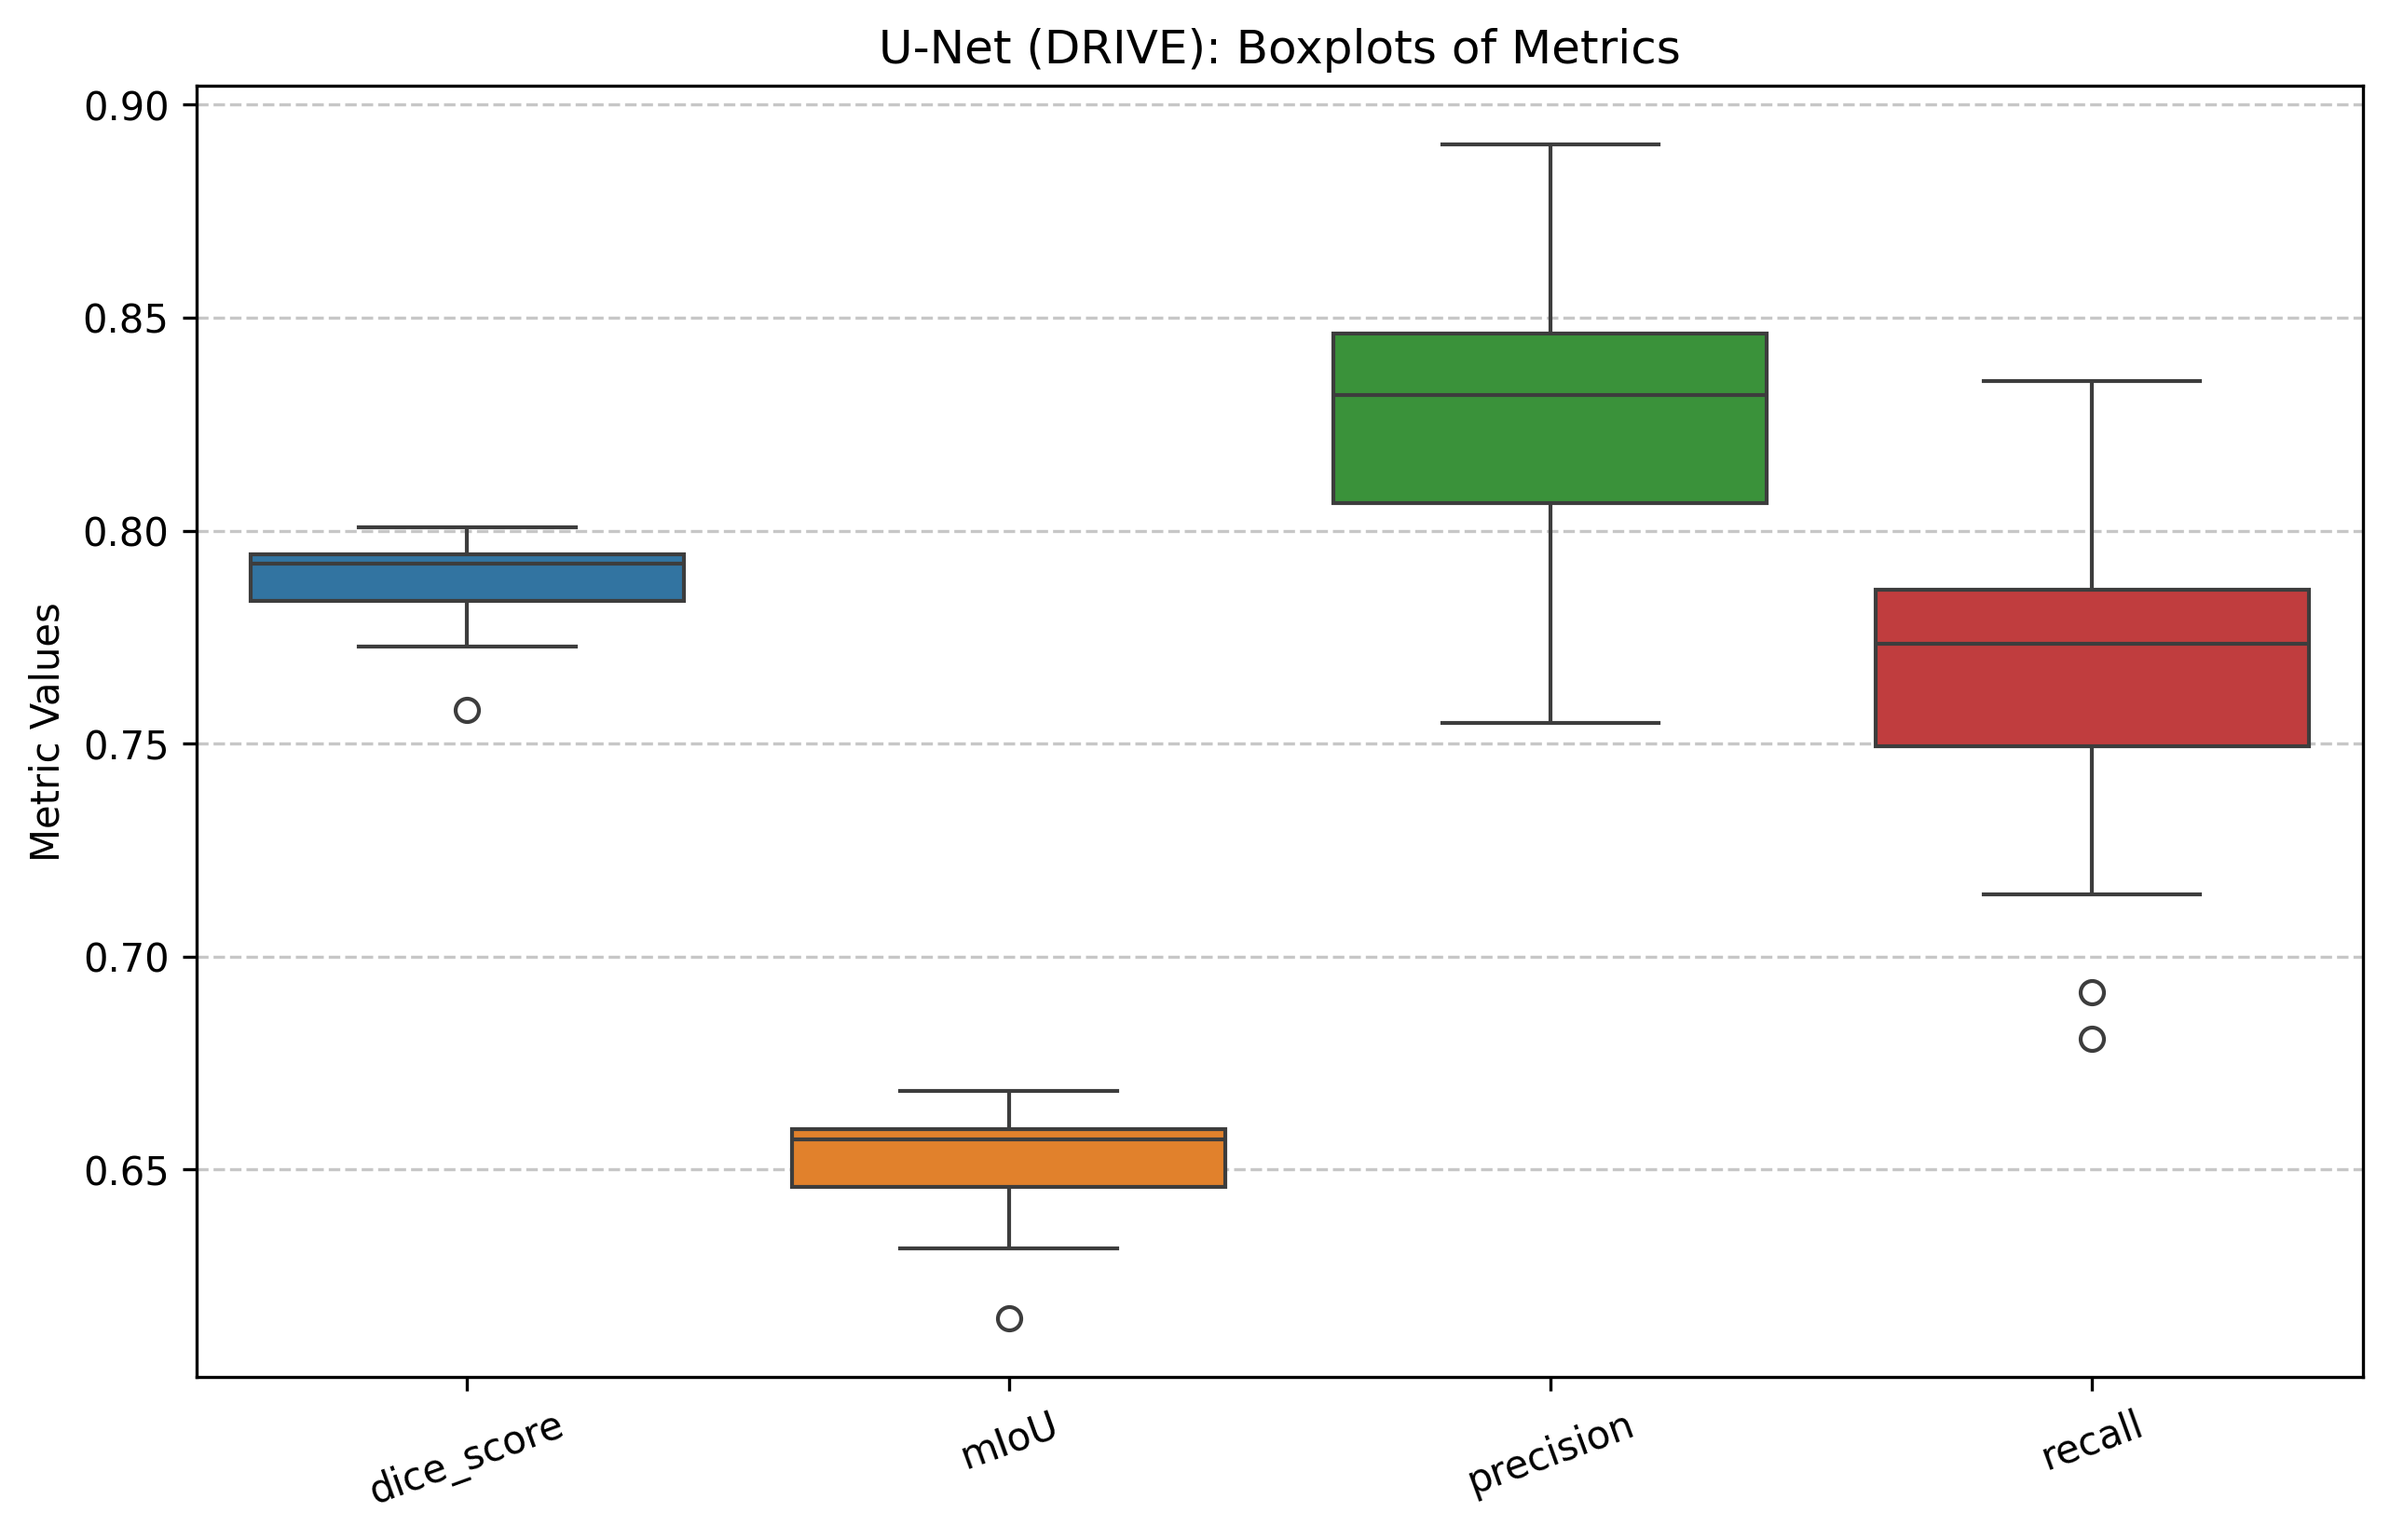
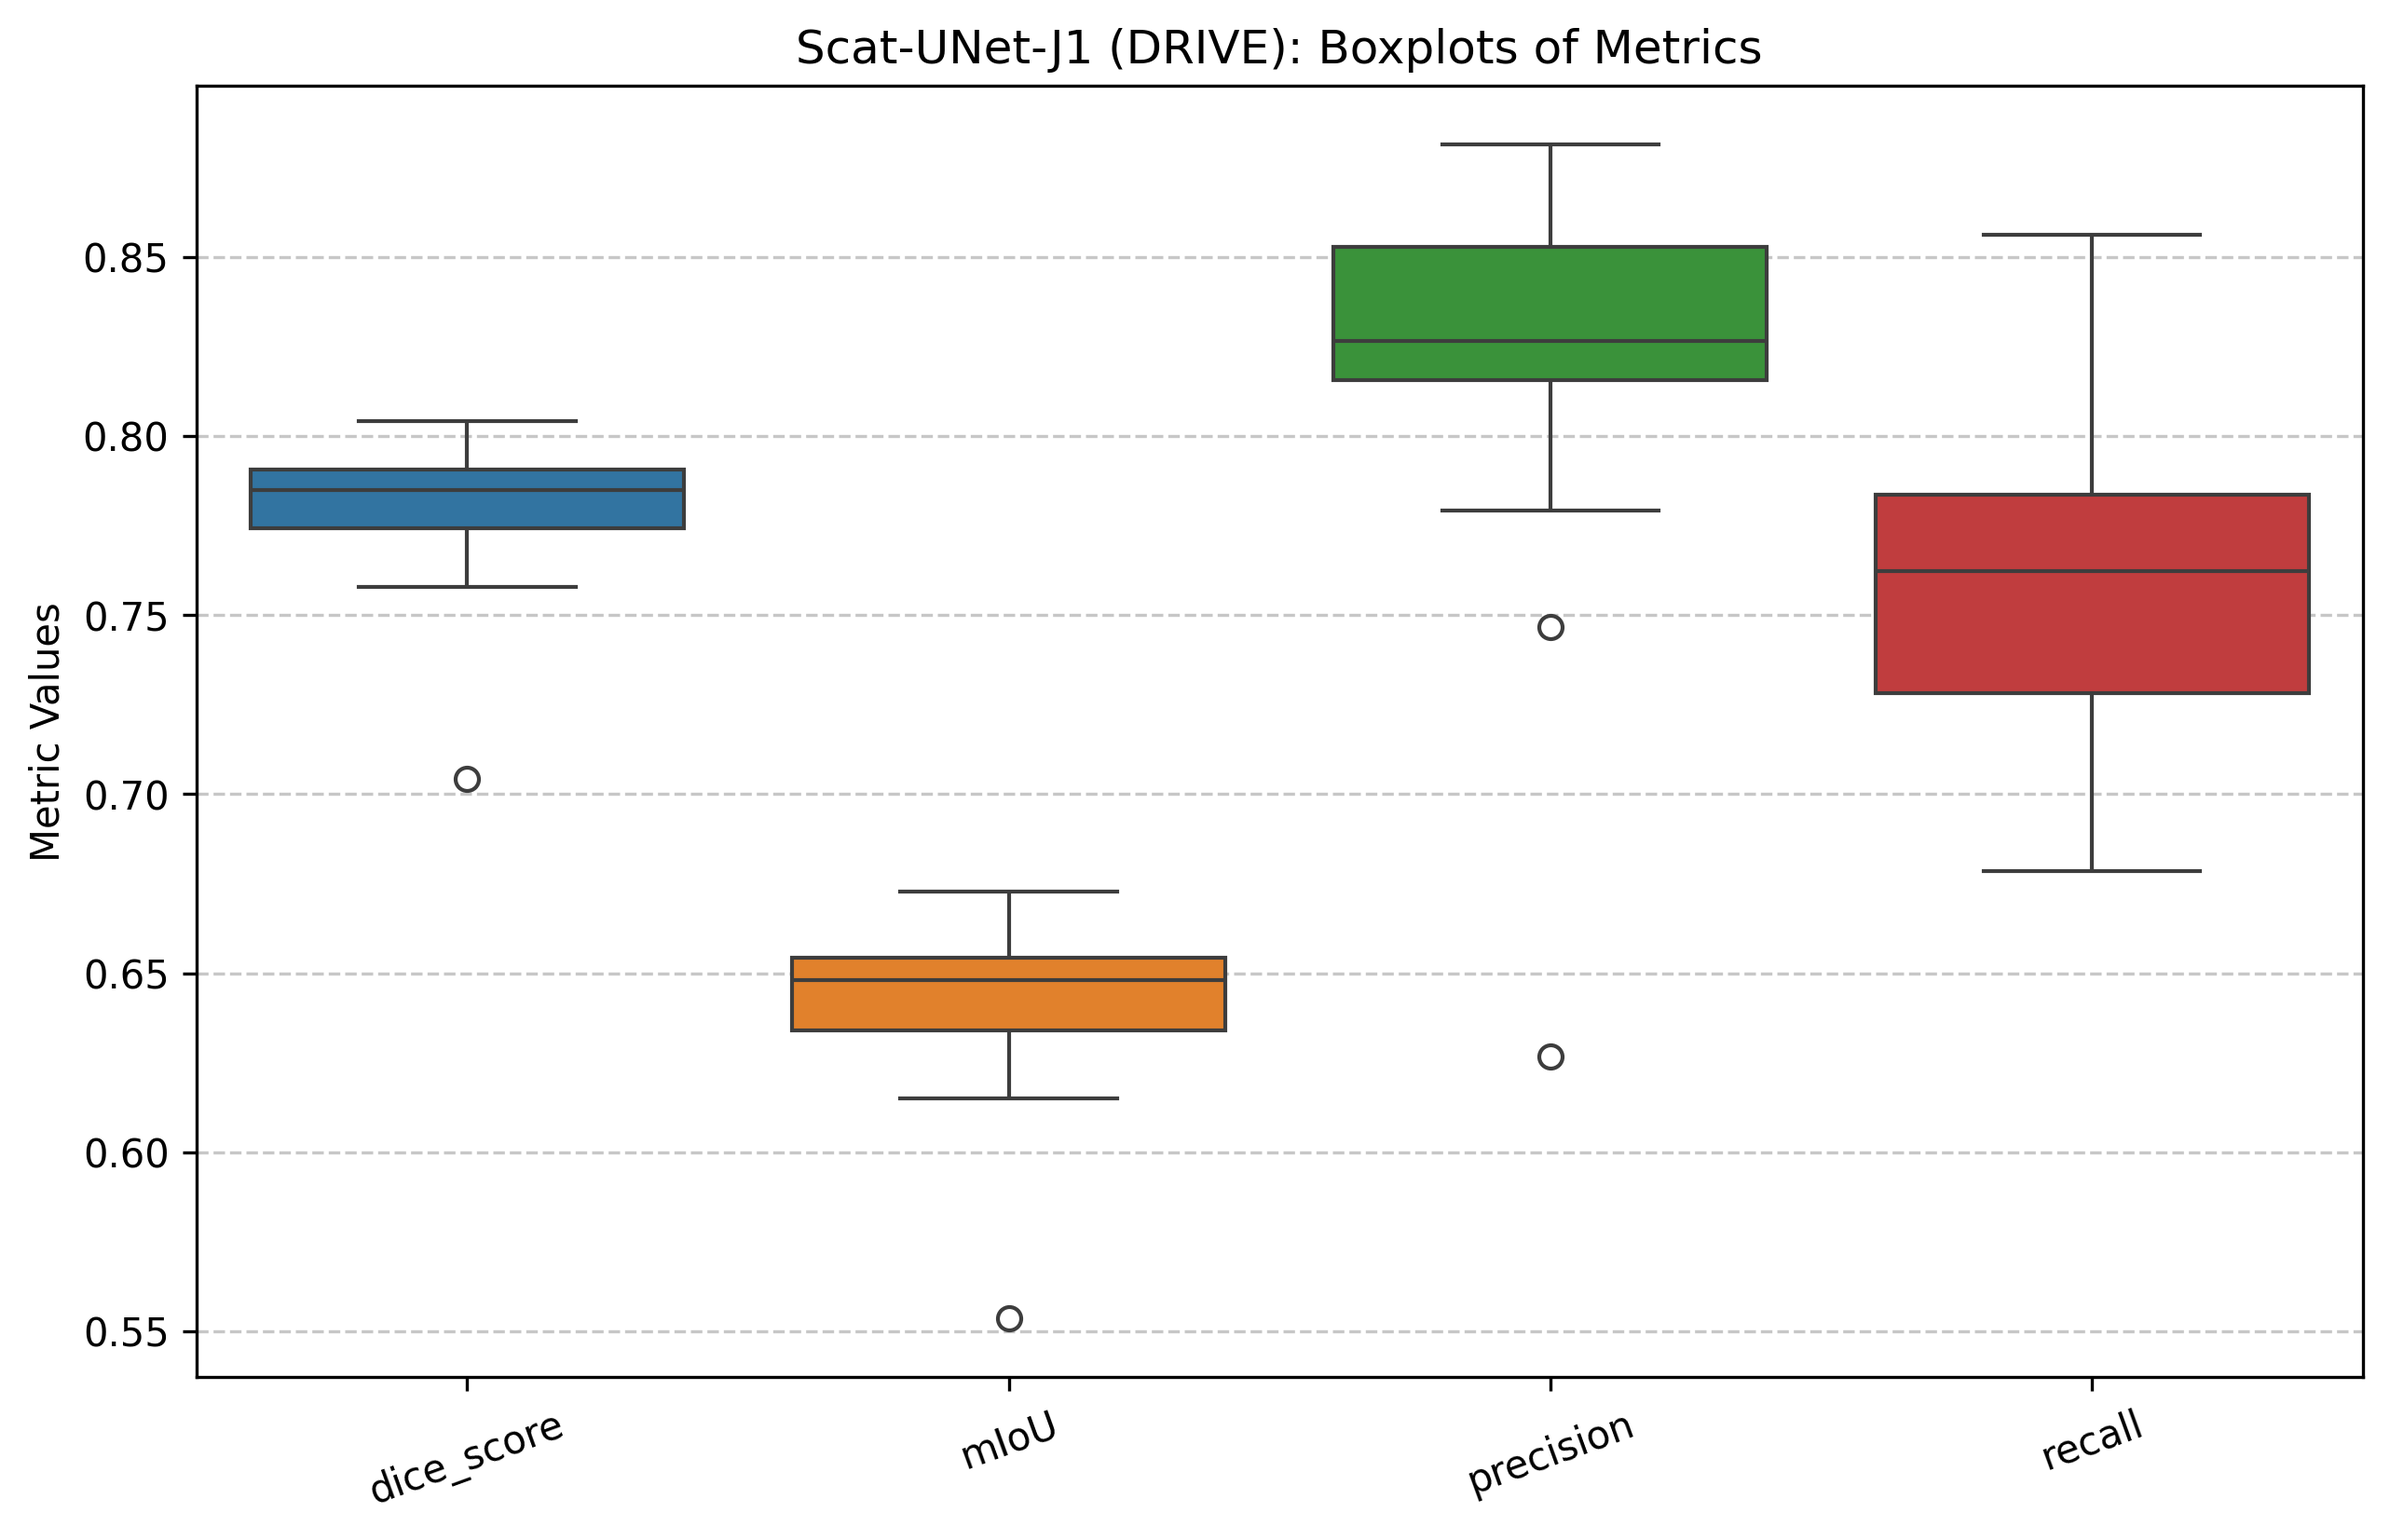
drive j1 results

diff --git a/analyse_results.py b/analyse_results.py
@@ -4,7 +4,7 @@ import matplotlib.pyplot as plt
 import seaborn as sns
 
 # File path
-file_path = "DRIVE_training_results_UNet.txt"
+file_path = "DRIVE_Scat-UNet-J1.txt"
 
 # Updated regex pattern to extract the two dictionaries
 dict_pattern = re.compile(r"Run \d+: (\{.*?\}), Credible Intervals: (\{.*?\})")
@@ -66,7 +66,7 @@ def plot_boxplots(metrics, filename="boxplot.png"):
     sns.boxplot(data=[metrics[key] for key in metrics.keys()])
     plt.xticks(ticks=range(len(metrics.keys())), labels=list(metrics.keys()), rotation=20)
     plt.ylabel("Metric Values")
-    plt.title("U-Net (DRIVE): Boxplots of Metrics")
+    plt.title("Scat-UNet-J1 (DRIVE): Boxplots of Metrics")
     plt.grid(axis="y", linestyle="--", alpha=0.7)
     # Save the figure
     plt.savefig(filename, bbox_inches="tight", dpi=300)
@@ -121,7 +121,7 @@ def plot_credible_intervals(runs, filename="credible_intervals.png"):
 
     plt.xlabel("Run Number")
     plt.ylabel("Metric Value")
-    plt.title("U-Net (DRIVE): Bayesian Credible Intervals Over Training Runs with Mean Values")
+    plt.title("Scat-UNet-J1 (DRIVE): Bayesian Credible Intervals Over Training Runs with Mean Values")
     plt.legend(loc='upper left', bbox_to_anchor=(1.05, 1), borderaxespad=0.)
     plt.grid(True, linestyle="--", alpha=0.7)
     plt.savefig(filename, bbox_inches="tight", dpi=300)
